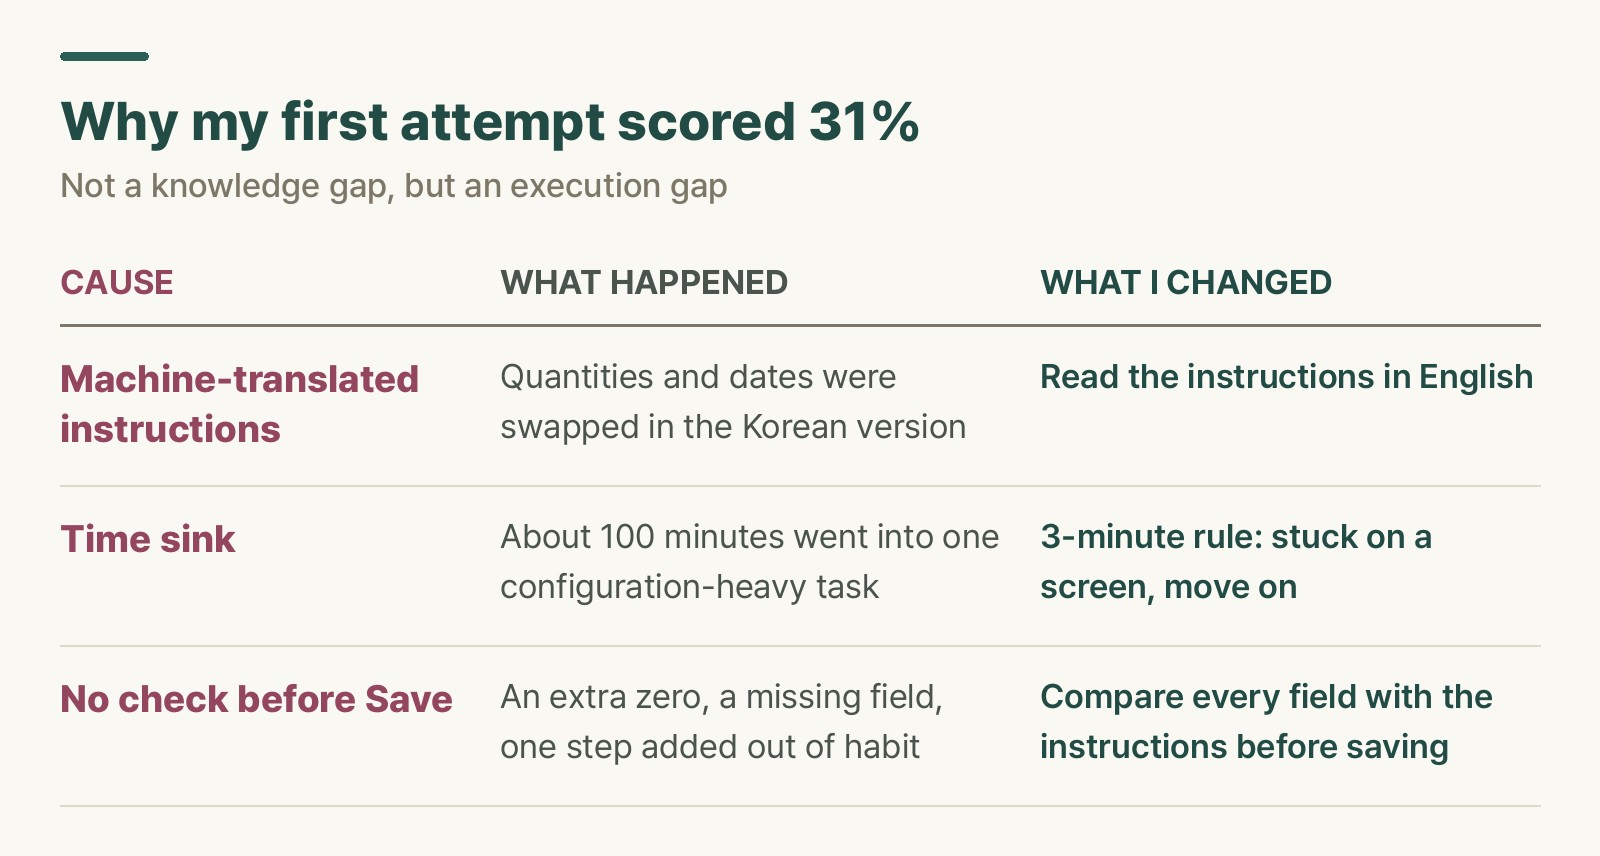
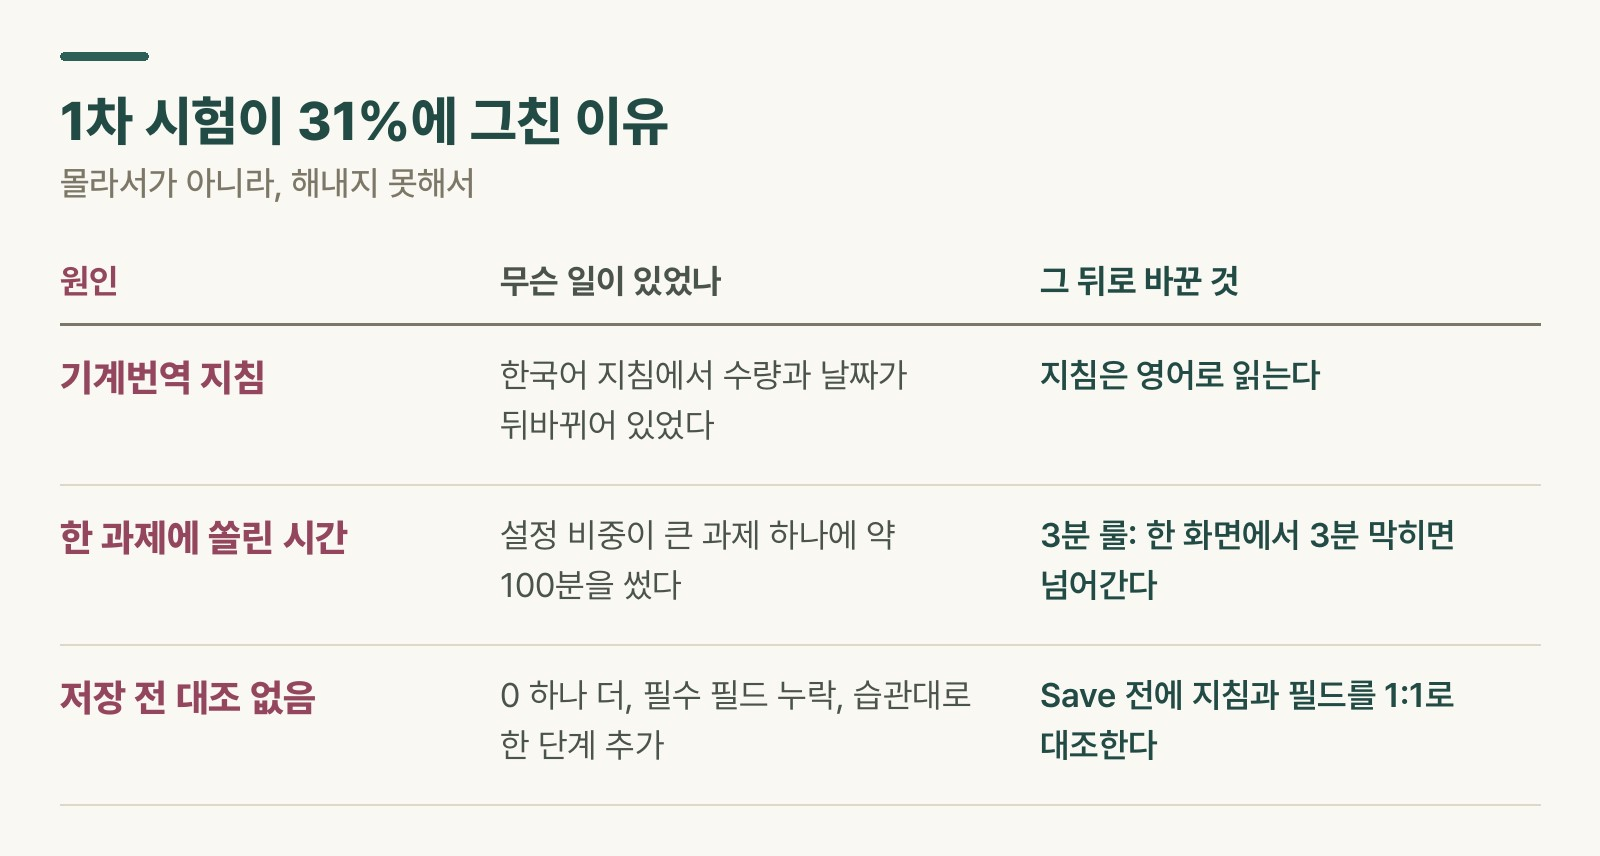
2편 도식: 한글판 + 영문판(_en)으로 분리
Claude-Session: https://claude.ai/code/session_013sML9pAEqnrmzvpCSp2NBT

diff --git a/scripts/diagrams/gen_mm_c_ts452.py b/scripts/diagrams/gen_mm_c_ts452.py
@@ -2,8 +2,8 @@
 """
 SAP MM 자격증 C_TS452 연재 도식 (brand_v3)
 
-운영자 결정: 이 연재의 도식은 영문 라벨 1종만 만들어 한글판·영문판 글에 함께 쓴다.
-(_en 파일을 따로 두지 않는다.)
+마스터 프롬프트 9절대로 한글판(기본 파일명)과 영문판(_en)을 함께 만든다.
+영문 글은 remarkEnImages 폴백으로 _en 파일을 자동으로 쓴다.
 
 사용법 (저장소 루트에서):
   python3 scripts/diagrams/gen_mm_c_ts452.py            # 전부 생성
@@ -54,22 +54,40 @@ def _wrap(c, text, font, width):
 
 
 # ---------------------------------------------------------------- 2편
-def build_2_01(out):
+T_2_01 = {
+    "ko": {
+        "title": "1차 시험이 31%에 그친 이유",
+        "sub": "몰라서가 아니라, 해내지 못해서",
+        "head": ("원인", "무슨 일이 있었나", "그 뒤로 바꾼 것"),
+        "rows": [
+            ("기계번역 지침", "한국어 지침에서 수량과 날짜가 뒤바뀌어 있었다", "지침은 영어로 읽는다"),
+            ("한 과제에 쏠린 시간", "설정 비중이 큰 과제 하나에 약 100분을 썼다", "3분 룰: 한 화면에서 3분 막히면 넘어간다"),
+            ("저장 전 대조 없음", "0 하나 더, 필수 필드 누락, 습관대로 한 단계 추가", "Save 전에 지침과 필드를 1:1로 대조한다"),
+        ],
+    },
+    "en": {
+        "title": "Why my first attempt scored 31%",
+        "sub": "Not a knowledge gap, but an execution gap",
+        "head": ("Cause", "What happened", "What I changed"),
+        "rows": [
+            ("Machine-translated instructions",
+             "Quantities and dates were swapped in the Korean version",
+             "Read the instructions in English"),
+            ("Time sink",
+             "About 100 minutes went into one configuration-heavy task",
+             "3-minute rule: stuck on a screen, move on"),
+            ("No check before Save",
+             "An extra zero, a missing field, one step added out of habit",
+             "Compare every field with the instructions before saving"),
+        ],
+    },
+}
+
+
+def build_2_01(lang, out):
     """1차 31% — 원인 3가지를 '원인 / 무슨 일이 있었나 / 바꾼 것' 미니 표로."""
-    title = "Why my first attempt scored 31%"
-    sub = "Not a knowledge gap, but an execution gap"
-    head = ("Cause", "What happened", "What I changed")
-    rows = [
-        ("Machine-translated instructions",
-         "Quantities and dates were swapped in the Korean version",
-         "Read the instructions in English"),
-        ("Time sink",
-         "About 100 minutes went into one configuration-heavy task",
-         "3-minute rule: stuck on a screen, move on"),
-        ("No check before Save",
-         "An extra zero, a missing field, one step added out of habit",
-         "Compare every field with the instructions before saving"),
-    ]
+    t = T_2_01[lang]
+    title, sub, head, rows = t["title"], t["sub"], t["head"], t["rows"]
     W = 800
     cols = [B.PAD, 250, 520]           # 열 시작 x
     widths = [cols[1] - cols[0] - 20, cols[2] - cols[1] - 20, W - B.PAD - cols[2]]
@@ -96,7 +114,7 @@ def build_2_01(out):
     # 헤더
     for i, h in enumerate(head):
         col = B.BERRY_S[1] if i == 0 else (B.NEUT_S[1] if i == 1 else B.TEAL_S[1])
-        c.text((cols[i], y + 8), h.upper(), f_head, fill=col)
+        c.text((cols[i], y + 8), h.upper() if lang == "en" else h, f_head, fill=col)
     y += head_h
     c.line([B.PAD, y, W - B.PAD, y], fill=B.NEUT_S[2], width=1.5)
 
@@ -115,11 +133,12 @@ def build_2_01(out):
 
 
 BUILDERS = {
-    "2-01": (build_2_01, "sap-mm-c-ts452-certification-2-01.jpg"),
+    "2-01": (build_2_01, "sap-mm-c-ts452-certification-2-01"),
 }
 
 if __name__ == "__main__":
     keys = sys.argv[1:] or list(BUILDERS)
     for k in keys:
-        fn, name = BUILDERS[k]
-        fn(os.path.join(OUT, name))
+        fn, base = BUILDERS[k]
+        fn("ko", os.path.join(OUT, base + ".jpg"))
+        fn("en", os.path.join(OUT, base + "_en.jpg"))
